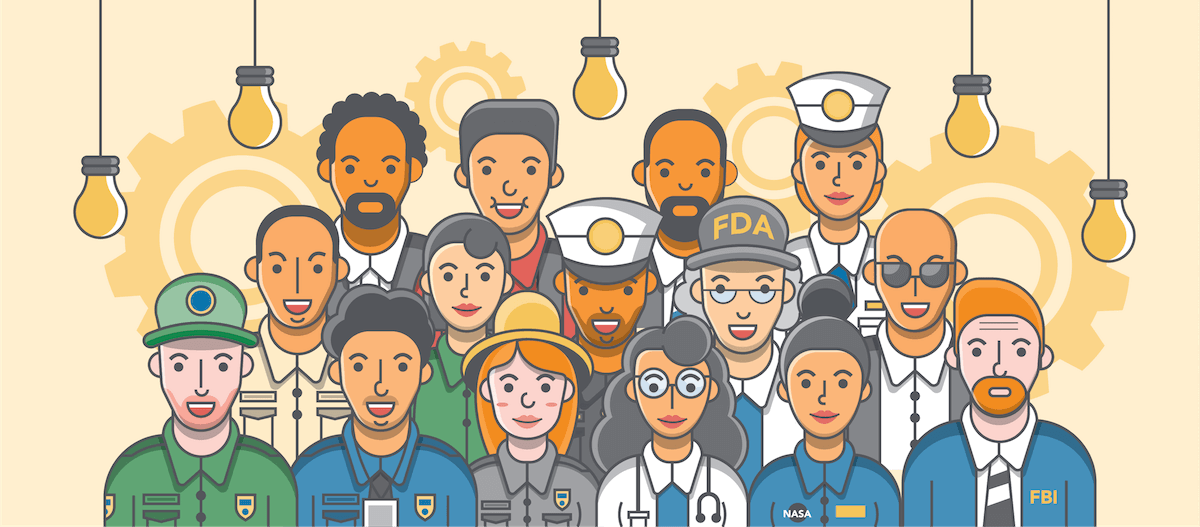
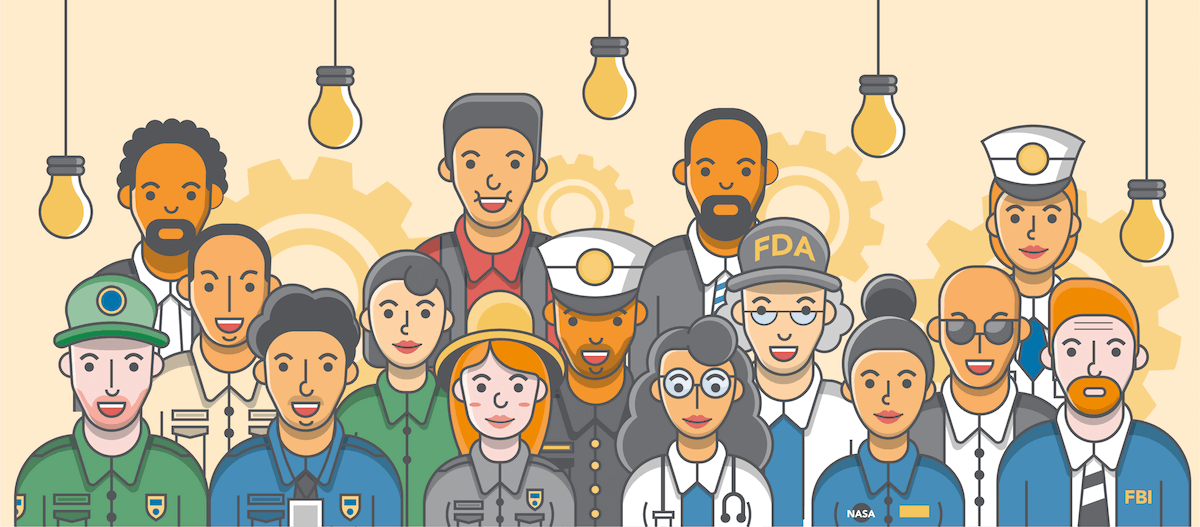
bump css version

diff --git a/_includes/head.html b/_includes/head.html
@@ -221,7 +221,7 @@
   <meta name="theme-color" content="#ffffff">
 
   <link rel="stylesheet" href="/css/font-awesome.min.css" type="text/css">
-  <link rel="stylesheet" href="/css/main.css?v=40" type="text/css">
+  <link rel="stylesheet" href="/css/main.css?v=41" type="text/css">
   <script src="/js/jquery.slim.min.js"></script>
   <script src="/js/tether.min.js"></script>
   <script src="/js/bootstrap.min.js"></script>

diff --git a/_sass/_custom.scss b/_sass/_custom.scss
@@ -202,7 +202,7 @@ $header-display-2: 3rem;
 
 // Notice bar
 $notice-bar-link-color: $white;
-$notice-bar-link-hover-color: lighten($brand-primary, 50%);
+$notice-bar-link-hover-color: lighten($brand-primary, 40%);
 $notice-bar-link-border: none;
 $notice-bar-link-border-hover: none;
 $notice-bar-bg-color: linear-gradient(90deg, $brand-primary, darken($brand-primary, 15%));